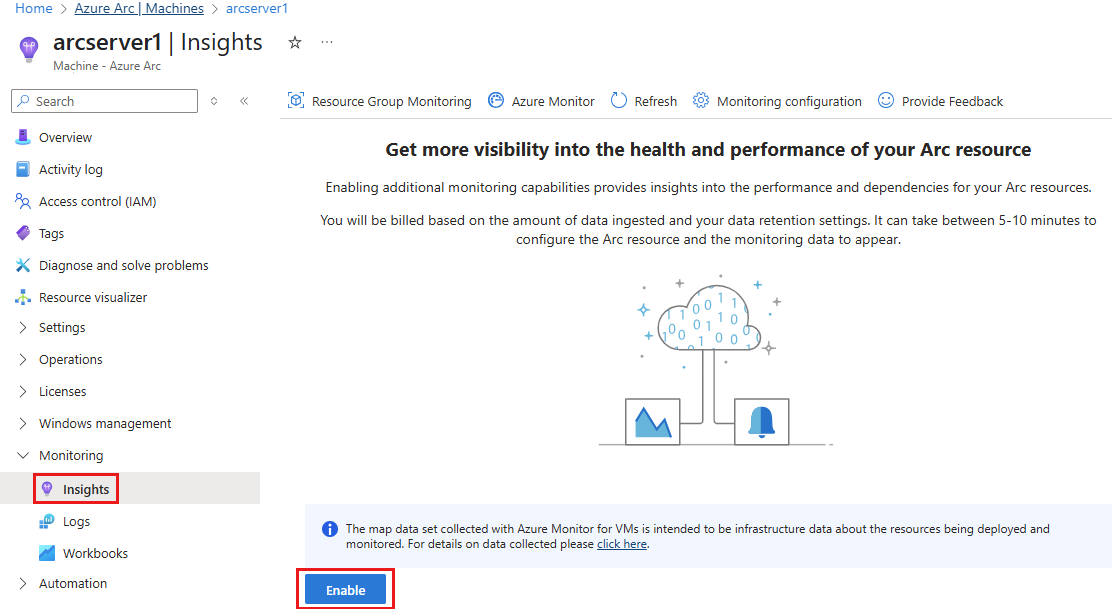
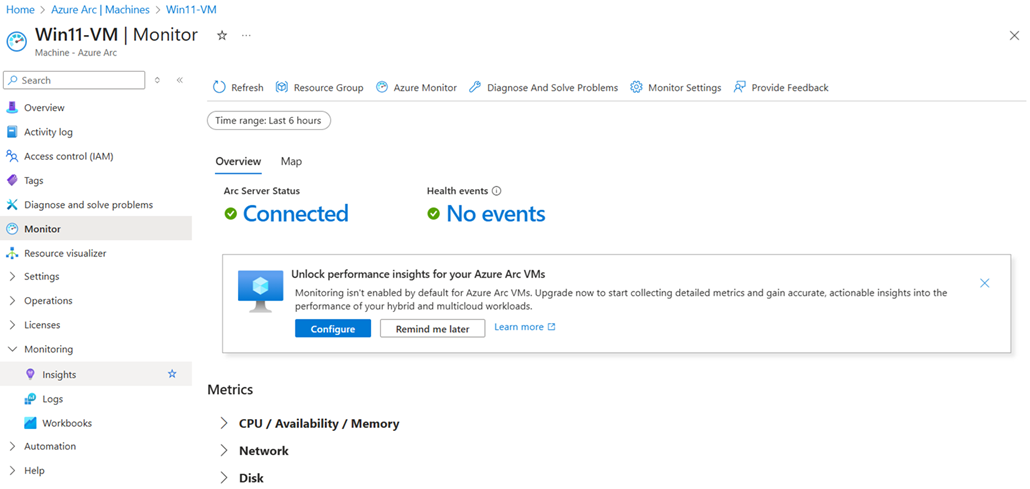
Freshness

diff --git a/articles/azure-arc/servers/tutorial-enable-vm-insights.md b/articles/azure-arc/servers/tutorial-enable-vm-insights.md
@@ -1,8 +1,8 @@
 ---
-title: Tutorial - Monitor a hybrid machine with Azure Monitor VM insights
+title: Monitor a hybrid machine with Azure Monitor VM insights
 description: Learn how to collect and analyze data from a hybrid machine in Azure Monitor.
 ms.topic: tutorial
-ms.date: 05/08/2025
+ms.date: 04/27/2026
 # Customer intent: As a system administrator, I want to enable VM insights on my hybrid machines, so that I can collect and analyze performance data for better monitoring and management of my infrastructure.
 ---
 
@@ -10,56 +10,129 @@ ms.date: 05/08/2025
 
 [Azure Monitor](/azure/azure-monitor/overview) can collect data directly from your hybrid machines into a Log Analytics workspace for detailed analysis and correlation. You can enable [VM insights](/azure/azure-monitor/vm/vminsights-overview) to collect data from your non-Azure virtual machines (VM). While there are [different options for deploying the Azure Monitor Agent](azure-monitor-agent-deployment.md) to your Arc-enabled servers, this tutorial shows how to do so by using the Azure portal to enable VM insights on a connected machine.
 
-In this tutorial, you'll learn how to:
-
-> [!div class="checklist"]
-> * Enable and configure VM insights for your Linux or Windows VMs hosted outside of Azure
-> * Collect and view data from these VMs
-
 ## Prerequisites
 
 * If you don't have an Azure subscription, create a [free account](https://azure.microsoft.com/pricing/purchase-options/azure-account?cid=msft_learn) before you begin.
-* Use our quickstart to [connect a hybrid machine](quick-enable-hybrid-vm.md) to Azure Arc. This tutorial assumes that you have already connected a machine to Azure Arc.
-* Be sure that your hybrid machine uses an [operating system supported by the Azure Monitor Agent](/azure/azure-monitor/agents/azure-monitor-agent-supported-operating-systems) to ensure that the servers operating system you're enabling is supported by VM insights.
-* Review the requirements specified in [Azure Monitor Agent network configuration](/azure/azure-monitor/agents/azure-monitor-agent-network-configuration). The VM insights Map Dependency agent doesn't transmit any data itself, and it doesn't require any changes to firewalls or ports.
+
+* Use our quickstart to [connect a hybrid machine](quick-enable-hybrid-vm.md) to Azure Arc. This tutorial assumes that you already connected a machine to Azure Arc.
+
+* Verify that your hybrid machine uses an [operating system supported by the Azure Monitor Agent](/azure/azure-monitor/agents/azure-monitor-agent-supported-operating-systems).
+
+* Configure your network security group (NSG) or firewall to allow outbound TCP port 443 (HTTPS) traffic to the `AzureMonitor` and `AzureResourceManager` **service tag** endpoints. These service tags are for your NSG and *not* Azure resource tags. For full requirements, see [Azure Monitor Agent network configuration](/azure/azure-monitor/agents/azure-monitor-agent-network-configuration). You can run one of the following commands to configure traffic to your firewall:
+
+  # [Azure PowerShell](#tab/azure-powershell)
+
+  ```azurepowershell
+  $nsg = Get-AzNetworkSecurityGroup -ResourceGroupName "<resource-group>" -Name "<nsg-name>"
+
+  # Add AzureMonitor outbound rule
+  $nsg | Add-AzNetworkSecurityRuleConfig `
+  -Name "AllowAzureMonitorOutbound" `
+  -Priority 150 `
+  -Direction Outbound `
+  -Access Allow `
+  -Protocol Tcp `
+  -SourceAddressPrefix * `
+  -SourcePortRange * `
+  -DestinationAddressPrefix AzureMonitor `
+  -DestinationPortRange 443
+
+  # Add AzureResourceManager outbound rule
+  $nsg | Add-AzNetworkSecurityRuleConfig `
+  -Name "AllowAzureResourceManagerOutbound" `
+  -Priority 151 `
+  -Direction Outbound `
+  -Access Allow `
+  -Protocol Tcp `
+  -SourceAddressPrefix * `
+  -SourcePortRange * `
+  -DestinationAddressPrefix AzureResourceManager `
+  -DestinationPortRange 443
+
+  $nsg | Set-AzNetworkSecurityGroup
+  ```
+
+  # [Azure CLI](#tab/azure-cli)
+
+  ```azurecli-interactive
+  # Add AzureMonitor outbound rule
+
+  az network nsg rule create \
+  --resource-group <resource-group> \
+  --nsg-name <nsg-name> \
+  --name AllowAzureMonitorOutbound \
+  --priority 150 \
+  --direction Outbound \
+  --access Allow \
+  --protocol Tcp \
+  --destination-port-ranges 443 \
+  --destination-address-prefixes AzureMonitor
+
+  # Add AzureResourceManager outbound rule
+
+  az network nsg rule create \
+  --resource-group <resource-group> \
+  --nsg-name <nsg-name> \
+  --name AllowAzureResourceManagerOutbound \
+  --priority 151 \
+  --direction Outbound \
+  --access Allow \
+  --protocol Tcp \
+  --destination-port-ranges 443 \
+  --destination-address-prefixes AzureResourceManager
+  ```
+
+  ---
+
+* Have permissions to create data collection rules (DCRs) and associate them with machines. See [Data collection rule permissions](/azure/azure-monitor/data-collection/data-collection-rule-create-edit#permissions).
+
+* Optionally, have a [Log Analytics workspace](/azure/azure-monitor/logs/quick-create-workspace) available. If you don't have one, a default workspace is created for you in the same region as your connected machine during setup.
 
 ## Enable VM insights
 
-1. Launch the Azure Arc service in the Azure portal by clicking **All services**, then searching for and selecting **Machines - Azure Arc**.
+1. Sign in to the [Azure portal](https://portal.azure.com). In the search bar, search for and select **Azure Arc**.
 
-1. On the **Azure Arc - Machines** page, select the connected machine you created in the [quickstart](quick-enable-hybrid-vm.md) article.
+1. Under **Infrastructure**, select **Machines**, then select the connected machine you created in the [quickstart](quick-enable-hybrid-vm.md) article.
 
-1. In the service menu, under **Monitoring**, select **Insights** and then **Enable**.
+1. In the service menu, under **Monitoring**, select **Insights**. The portal opens the **Monitor** page for your machine. If enhanced monitoring wasn't enabled, several performance charts show no data and a message appears offering to enable it. Select **Configure** to open the **Configure monitor** page.
 
-    :::image type="content" source="./media/tutorial-enable-vm-insights/insights-option.png" lightbox="./media/tutorial-enable-vm-insights/insights-option.png" alt-text="Screenshot of the Insights pane with Enable button." border="false":::
+   :::image type="content" source="./media/tutorial-enable-vm-insights/insights-option.png" lightbox="./media/tutorial-enable-vm-insights/insights-option.png" alt-text="Screenshot of the Insights pane with the Configure button." border="false":::
 
-1. In the **Monitoring configuration** pane, confirm that the right subscription appears. For **Data collection rule**, select **Create new**.
+1. On the **Configure monitor** page, leave **[Preview] OpenTelemetry metrics** selected. A default Log Analytics workspace is automatically selected. If one doesn't already exist, one is created in the same region as your connected machine. To use an existing workspace instead, select **Customize infrastructure monitoring** and select the workspace.
 
-1. In the **Create new rule** pane, enter a name for your data collection rule. For this tutorial, leave the other options as is. Don't select an existing Log Analytics workspace if you already have one. Instead, select the default, which is a workspace with a unique name in the same region as your registered connected machine. This workspace is created and configured for you.
+1. Select **Review + Enable**, and then select **Enable**.
 
-    Status messages display while the configuration is performed and extensions are installed on your connected machine. This process takes a few minutes.
+   Status messages display while the configuration is performed and the Azure Monitor Agent extension is installed on your connected machine. This process takes a few minutes.
 
-    When the process is complete, a message displays that the machine has been onboarded and that Insights has been successfully deployed.
+   When the process is complete, a message displays that the machine is onboarded and that Insights is successfully deployed.
 
 ## View data collected
 
-1. After deployment and configuration are complete, select **Insights**, and then select the **Performance** tab. The Performance tab shows a select group of performance counters collected from the guest operating system of your machine. Scroll down to view more counters, and move the mouse over a graph to view average and percentiles taken starting from the time when the Azure Monitor Agent VM extension was installed on the machine.
+After the Azure Monitor Agent is installed, it takes a few minutes for enough data to be collected to populate the portal.
 
-    :::image type="content" source="./media/tutorial-enable-vm-insights/insights-performance-charts.png" lightbox="./media/tutorial-enable-vm-insights/insights-performance-charts.png"alt-text="Screenshot of Insights Performance tab with charts for selected machine." border="false":::
+1. In the service menu, under **Monitoring**, select **Insights** to return to the **Monitor** page.
+
+1. If you enabled both the metrics-based and logs-based experiences, a selector appears at the top of the page. Select each experience to compare the available charts and insights:
+
+   - **Metrics based visualizations (Preview)** - Shows performance indicators focused on CPU, memory, disk, and network utilization. Also incorporates status from Service Health and Resource Health.
+
+   - **Log based visualizations (Classic)** - Uses summarized performance data collected in your Log Analytics workspace. Select the **Performance** tab to view counters for your machine. Scroll down to view more counters, or hover over a chart and view averages, and percentiles from the time the Azure Monitor Agent was installed.
+
+   :::image type="content" source="./media/tutorial-enable-vm-insights/insights-performance-charts.png" lightbox="./media/tutorial-enable-vm-insights/insights-performance-charts.png" alt-text="Screenshot of Insights Performance tab with charts for selected machine in log-based classic view." border="false":::
 
 1. Select the **Map** tab. The maps feature shows the processes running on the machine and their dependencies. Select **Properties** to open the property pane (if it isn't already open).
 
-    :::image type="content" source="./media/tutorial-enable-vm-insights/insights-map.png" lightbox="./media/tutorial-enable-vm-insights/insights-map.png" alt-text="Screenshot of Insights Map tab with map for selected machine." border="false":::
+   :::image type="content" source="./media/tutorial-enable-vm-insights/insights-map.png" lightbox="./media/tutorial-enable-vm-insights/insights-map.png" alt-text="Screenshot of Insights Map tab with map for selected machine." border="false":::
 
-1. Expand the processes for your machine. Select one of the processes to view its details and to highlight its dependencies.
+   > [!NOTE]
+   > Even though the **Map** tab is visible in both experiences, see [VM Insights Map and Dependency Agent retirement guidance](/azure/azure-monitor/vm/vminsights-maps-retirement) to learn more.
 
-1. Select your machine again and then select **Log Events**. You see a list of tables that are stored in the Log Analytics workspace for the machine. This list differs between Windows or Linux machines.
+1. To view log data, in the service menu, under **Monitoring**, select **Logs**. A list of tables stored in the Log Analytics workspace for the machine appears. The tables available differ between Windows and Linux machines.
 
-1. Select the **Event** table. The **Event** table includes all events from the Windows event log. Log Analytics opens with a simple query to retrieve collected event log entries.
+1. Select the **Event** table. Log Analytics opens with a simple query to retrieve collected Windows event log entries.
 
 ## Next steps
 
 To learn more about Azure Monitor, see the following article:
 
-> [!div class="nextstepaction"]
-> [Azure Monitor overview](/azure/azure-monitor/overview)
+[Azure Monitor overview](/azure/azure-monitor/overview)
